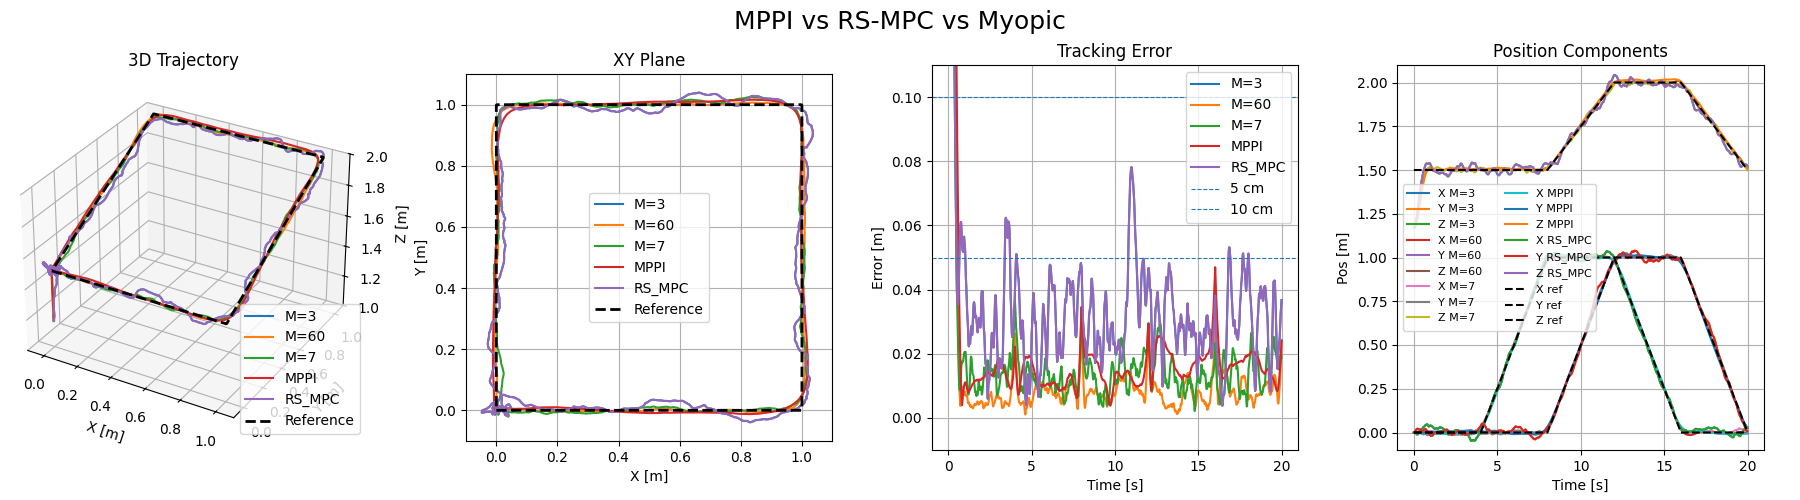
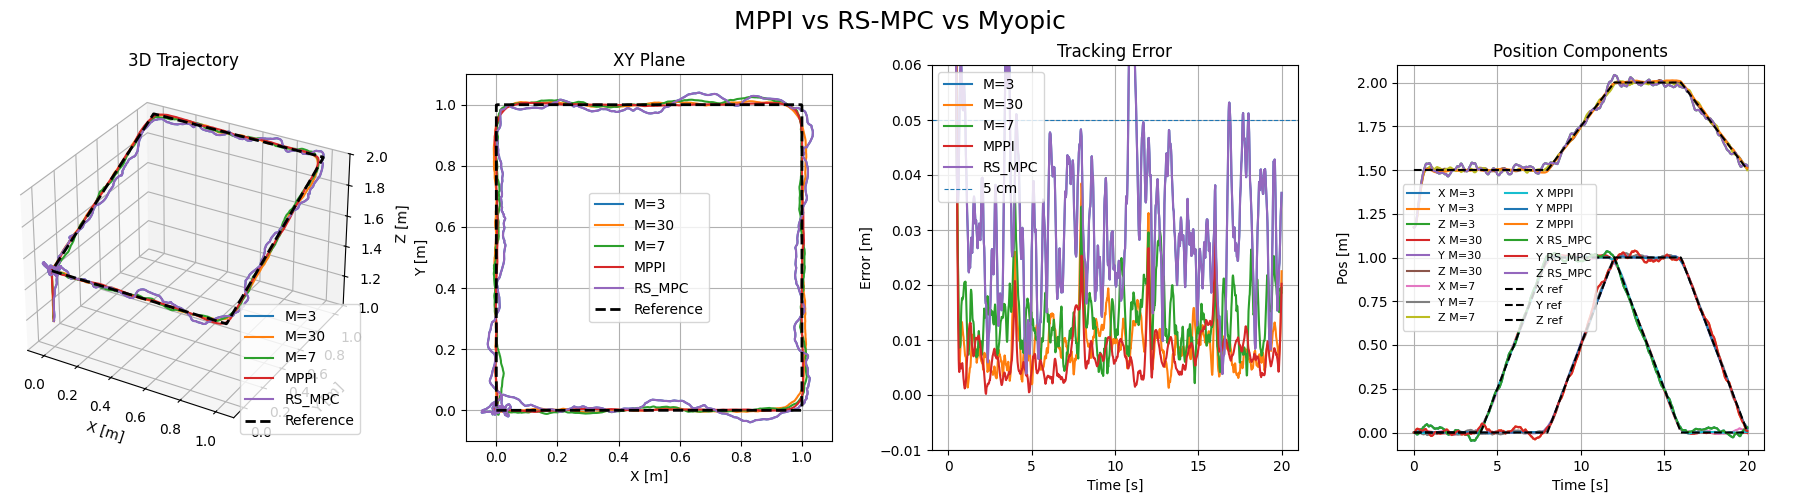
V0.9.4 MPPI vs RS-MPC vs Myopic

diff --git a/Sim'n'Real/sbmpc/plot_trajectorys_path.py b/Sim'n'Real/sbmpc/plot_trajectorys_path.py
@@ -93,10 +93,10 @@ def plot_group(runs, title="Group Plot"):
         errors = np.linalg.norm(act[:T] - base_ref[:T], axis=1)
         ax_err.plot(t[:T], errors, label=label)
     ax_err.axhline(0.05, ls="--", lw=0.8, label="5 cm")
-    ax_err.axhline(0.10, ls="--", lw=0.8, label="10 cm")
+    # ax_err.axhline(0.10, ls="--", lw=0.8, label="10 cm")
     ax_err.set_title("Tracking Error"); ax_err.set_xlabel("Time [s]"); ax_err.set_ylabel("Error [m]")
     ax_err.legend(); ax_err.grid(True)
-    ax_err.set_ylim(-0.01, 0.11)
+    ax_err.set_ylim(-0.01, 0.06)
 
     # 4) 分量对比（实际）
     ax_pos = fig.add_subplot(144)
